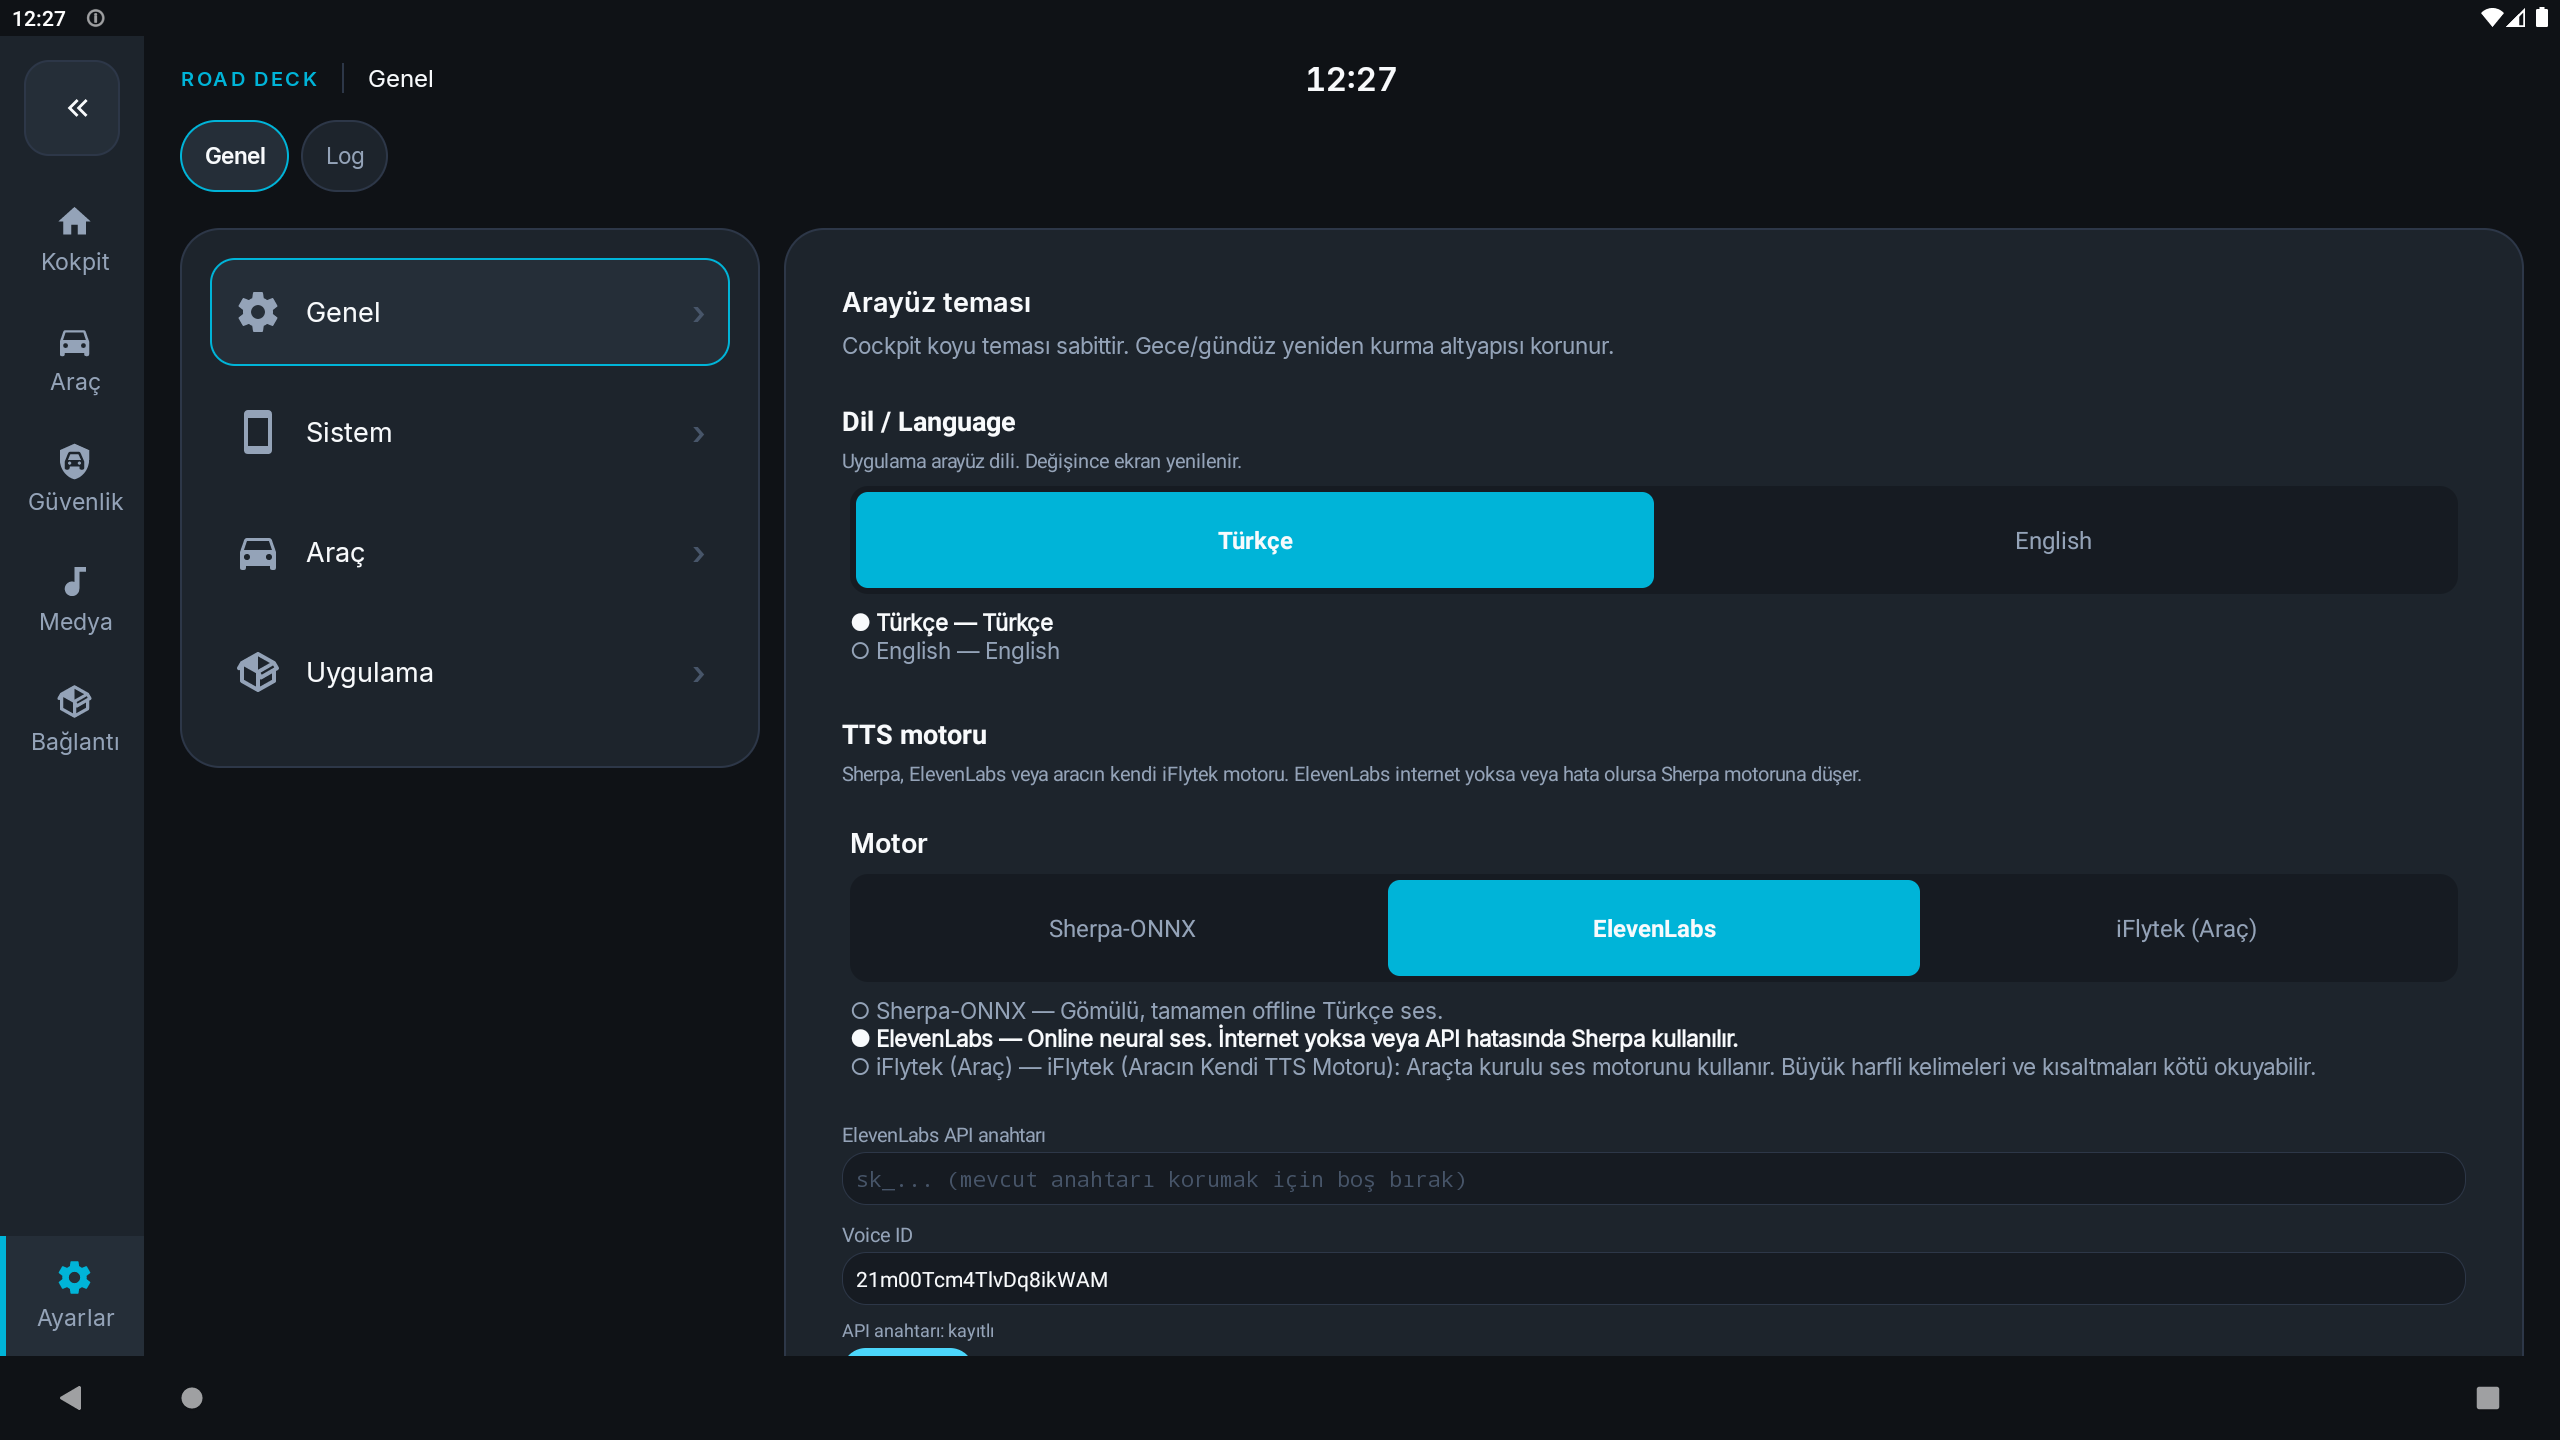
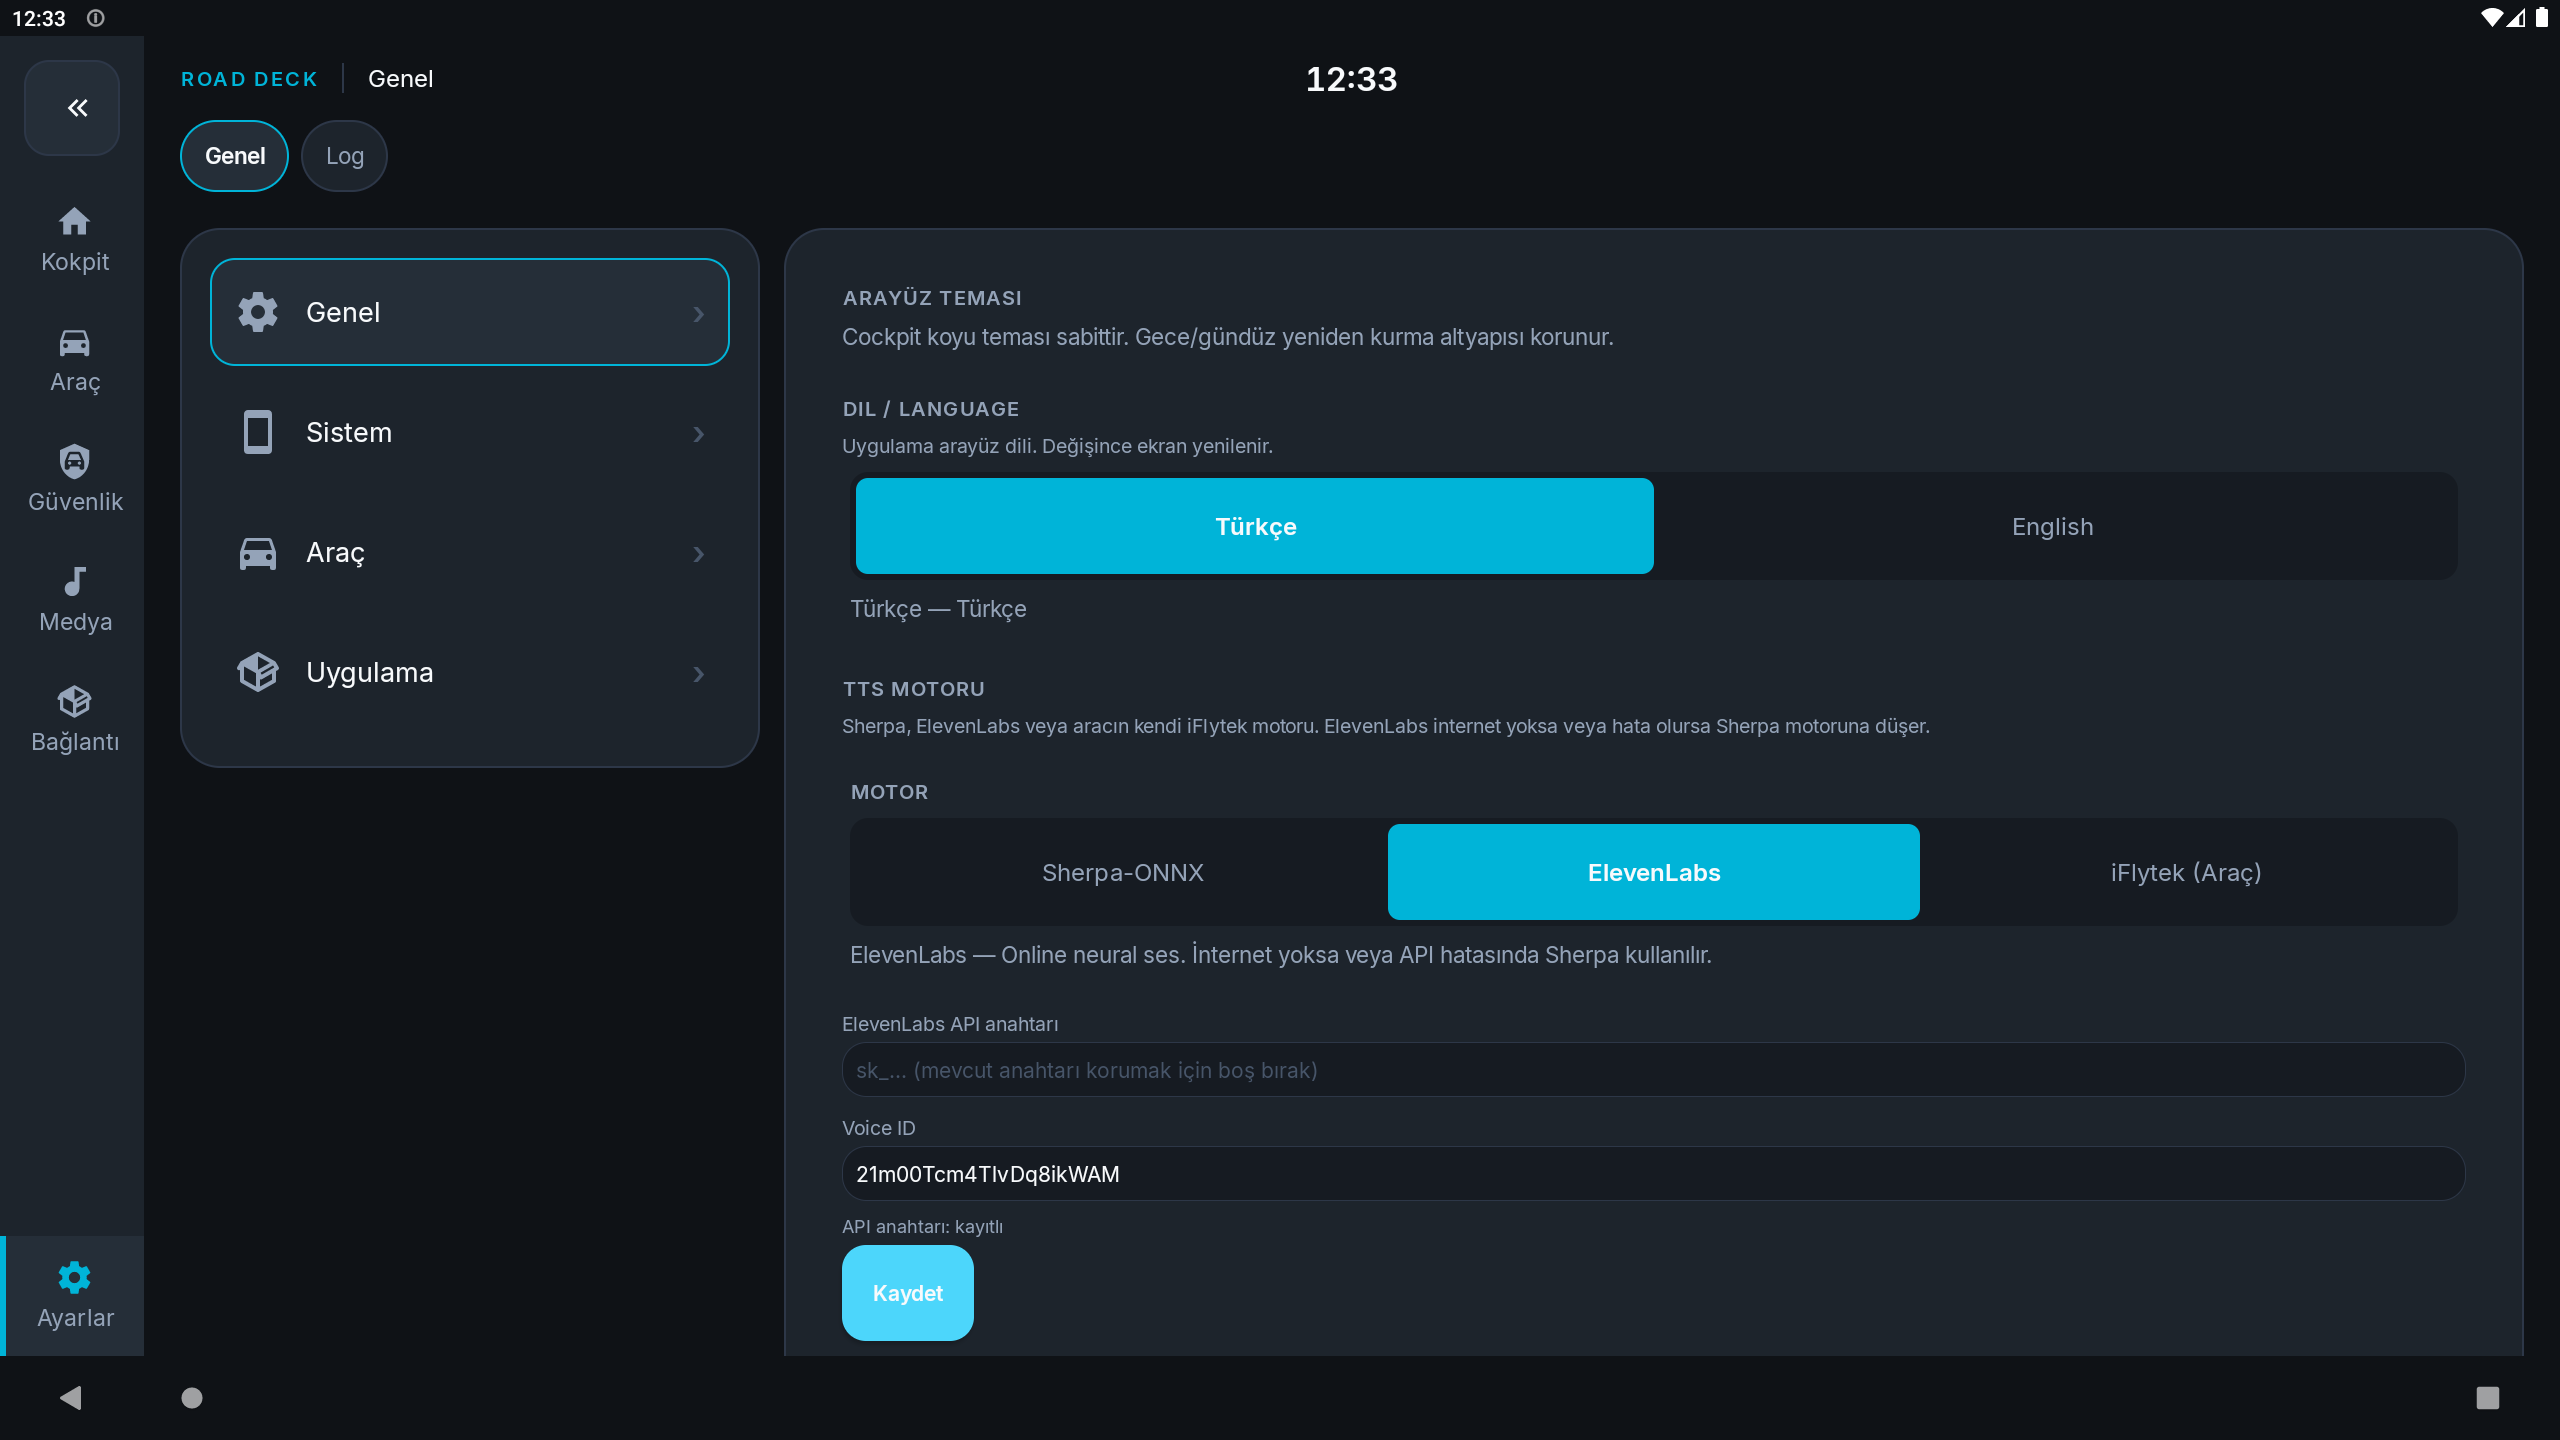
UI: legacy basliklari LabelCaps'e cek, bolum basligi tipografisini birlestir
- CockpitLegacyStyler.applySectionHeadings: 17sp+ kalin basliklar LabelCaps
- Ayar ekrani bolum basliklari artik 13sp caps Inter
- Segment yardim metni tek satir

diff --git a/app/src/main/java/com/mapcontrol/ui/builder/SettingsTabBuilder.java b/app/src/main/java/com/mapcontrol/ui/builder/SettingsTabBuilder.java
@@ -31,6 +31,7 @@ import com.mapcontrol.driving.DrivingSessionRecorder;
 import com.mapcontrol.driving.DrivingTestData;
 import com.mapcontrol.driving.DrivingTripStore;
 import com.mapcontrol.tts.MapControlSpeech;
+import com.mapcontrol.ui.cockpit.CockpitLegacyStyler;
 import com.mapcontrol.ui.cockpit.CockpitListRow;
 import com.mapcontrol.ui.cockpit.CockpitSurfaces;
 import com.mapcontrol.ui.cockpit.CockpitTokens;
@@ -140,6 +141,9 @@ public class SettingsTabBuilder {
             createPermissionsSection(system);
             createFloatingBackButtonSection(system);
 
+            CockpitLegacyStyler.applySectionHeadings(general);
+            CockpitLegacyStyler.applySectionHeadings(system);
+
             LinearLayout vehicle = sectionGroup();
             createLauncherModeSection(vehicle);
             createVehicleModelSection(vehicle);
@@ -149,6 +153,8 @@ public class SettingsTabBuilder {
             createBootAutostartSection(app);
             createCloudSection(app);
 
+            CockpitLegacyStyler.applySectionHeadings(vehicle);
+            CockpitLegacyStyler.applySectionHeadings(app);
             final LinearLayout[] groups = {general, system, vehicle, app};
             final CockpitListRow[] selectedRow = {null};
             int[] icons = {R.drawable.ic_mdi_cog, R.drawable.ic_mdi_cellphone,

diff --git a/app/src/main/java/com/mapcontrol/ui/cockpit/CockpitLegacyStyler.java b/app/src/main/java/com/mapcontrol/ui/cockpit/CockpitLegacyStyler.java
@@ -31,6 +31,29 @@ public final class CockpitLegacyStyler {
         }
     }
 
+    /** Yalnız 17sp+ kalın başlıkları LabelCaps'e çeker; ayar ekranı bölüm başlıkları için. */
+    public static void applySectionHeadings(View root) {
+        if (root == null) {
+            return;
+        }
+        if (root instanceof TextView && !(root instanceof Button)) {
+            TextView tv = (TextView) root;
+            float sp = tv.getTextSize() / tv.getResources().getDisplayMetrics().scaledDensity;
+            Typeface tf = tv.getTypeface();
+            boolean bold = tf != null && (tf.getStyle() & Typeface.BOLD) != 0;
+            if (sp >= 17f && bold && tv.getText().length() > 0) {
+                CockpitTokens.labelCaps(tv);
+                return;
+            }
+        }
+        if (root instanceof ViewGroup) {
+            ViewGroup group = (ViewGroup) root;
+            for (int i = 0; i < group.getChildCount(); i++) {
+                applySectionHeadings(group.getChildAt(i));
+            }
+        }
+    }
+
     private static void styleText(TextView view) {
         Typeface current = view.getTypeface();
         // Log/terminal ve açıkça monospace bırakılan alanları koru.
